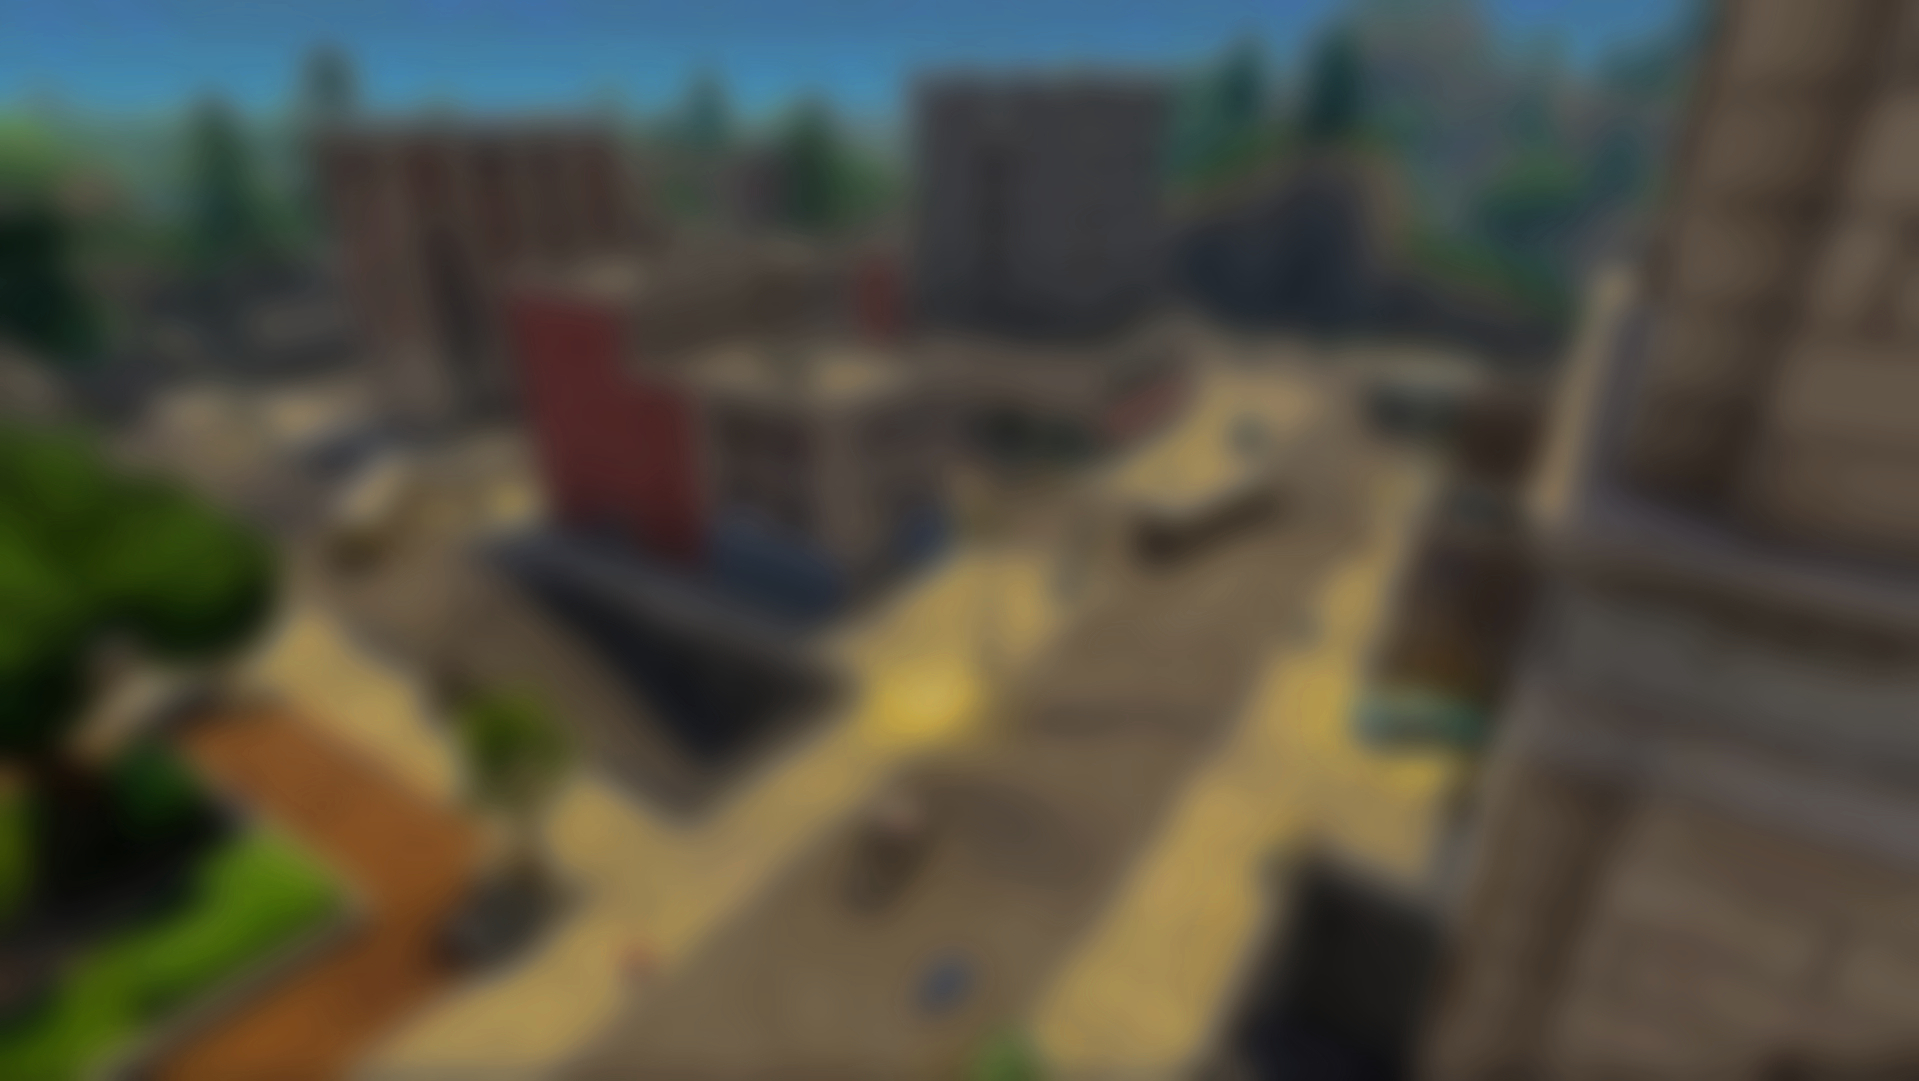
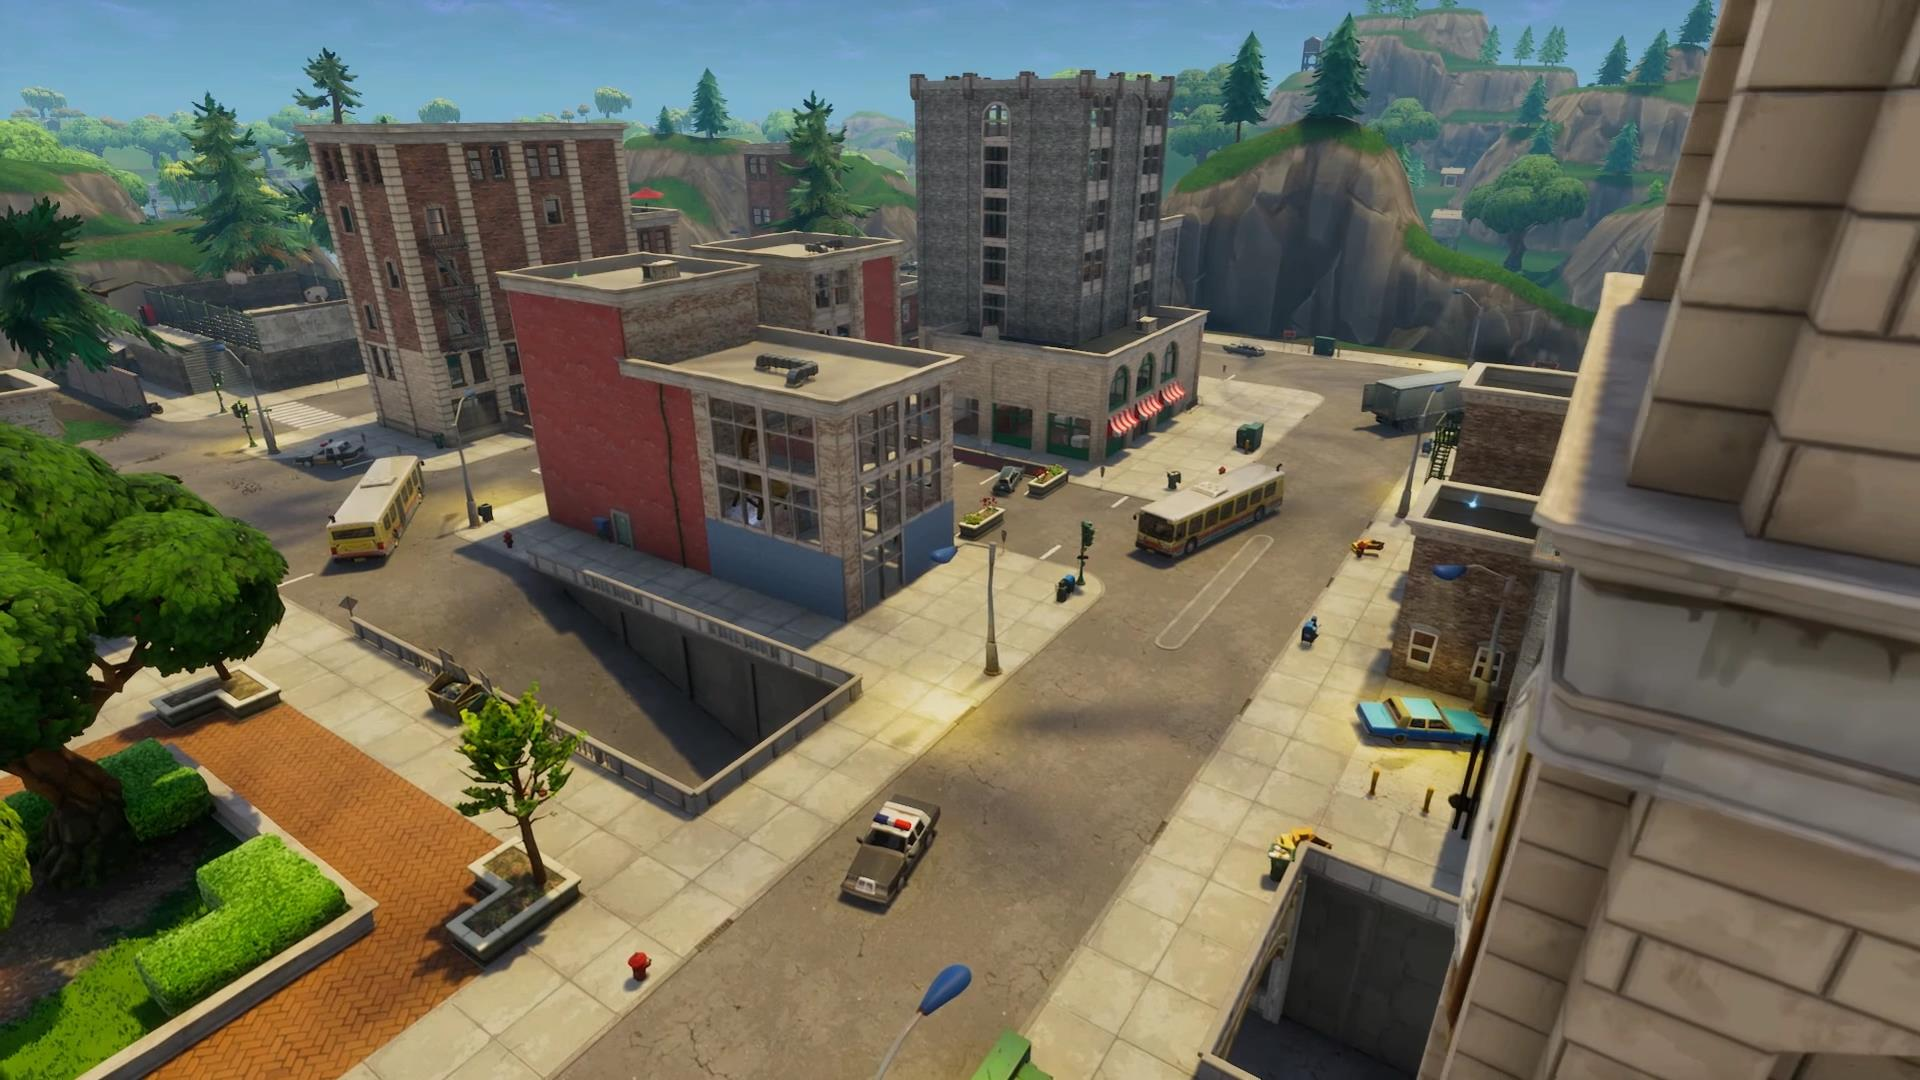
fixed images and edited styles for images

diff --git a/style.css b/style.css
@@ -92,7 +92,7 @@ section, footer {
 
 /* reviews */
 .reviews {
-    background-image: url(img/tiltedcloseblur.png);
+    background-image: url(img/tiltedclose.png);
     background-attachment: fixed;
     background-position: center;
     background-repeat: no-repeat;
